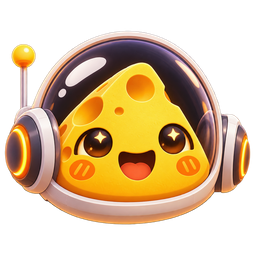
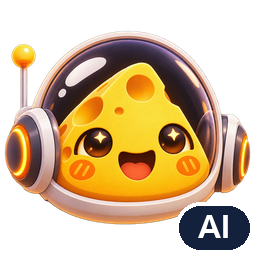
docs: disclose AI use and badge the AI-generated mascot
Space Apps requires a visible watermark on SI-generated images and a
written note on SI-generated audio and code. Stamp an "AI" badge on the
mascot and the icons made from it, and add a "Use of AI tools" section
to the README covering the mascot, the GPT narration and the coding
assistant. Also list the AI model licenses and credit the NASA photo of
Earth used in the pitch video.

Changed region(s): [[0.6875, 0.7812, 1.0, 1.0]]

diff --git a/README.md b/README.md
@@ -35,6 +35,7 @@ cheeseOS is a health app for crews on long-duration missions. The astronaut says
 - [Tests](#tests)
 - [Videos](#videos)
 - [Sources](#sources)
+- [Use of AI tools](#use-of-ai-tools)
 - [License](#license)
 
 ## How it works
@@ -114,16 +115,15 @@ Speech transcription always runs on the device, with `whisper-small`. For the su
 | Engine | Where it runs | Notes |
 | --- | --- | --- |
 | **Browser** (default) | On the device, in a Web Worker | Works offline after the first download |
-| **OpenRouter** | In the cloud | Uses the user's own key. The default model is `google/gemma-3-27b-it` |
+| **OpenRouter** | In the cloud | Uses the user's own key. Offers only Apache 2.0 models made outside China (Mistral Small 3.2 by default, gpt-oss and Granite 4.2), pinned to US or EU hosts |
 | **Off** | — | Local rules only |
 
 Models available in the browser:
 
 | Model | Download with WebGPU | Download on CPU |
 | --- | --- | --- |
-| Gemma 3 1B (default) | 730 MB | 820 MB |
-| Qwen 2.5 0.5B | 460 MB | 750 MB |
-| Qwen 2.5 1.5B | 1.17 GB | 1.7 GB |
+| Granite 4.0 1B (default) | 1.19 GB | 1.7 GB |
+| Granite 4.0 350M | 330 MB | 550 MB |
 
 If a model fails to load on the device, the app tries the smaller ones next. If the local answer takes longer than 30 seconds, it is dropped and the local rules stand alone.
 
@@ -204,10 +204,24 @@ npm run render   # render
 - NASA HRP: [Human Research Roadmap](https://humanresearchroadmap.nasa.gov/) and [Evidence Report: SANS](https://humanresearchroadmap.nasa.gov/evidence/reports/SANS%20EB%202022%20FINAL_8-15-22.pdf)
 - NASA OCHMO: [NASA-STD-3001 Vol. 1 Rev. C](https://standards.nasa.gov/sites/default/files/standards/NASA/C/nasa-std-3001-vol-1-rev-c-signature.pdf) and [Technical Brief: Radiation Protection](https://www.nasa.gov/wp-content/uploads/2023/12/ochmo-tb-020-radiation-protection.pdf)
 - NIH MedlinePlus: [Vital signs](https://medlineplus.gov/ency/article/002341.htm) and [Pulse Oximetry](https://medlineplus.gov/lab-tests/pulse-oximetry/)
+- NASA: the photo of Earth in the pitch video (public domain)
+
+## Use of AI tools
+
+As the NASA Space Apps rules ask, this is where and how AI tools (SI) were used:
+
+- **Mascot.** The cheeseOS mascot and the app icons made from it were generated with an AI image tool. In the app they carry a visible "AI" badge. The two videos, their thumbnails and the screenshots were made before the badge was added, so the mascot in them has no badge; this note and the video descriptions disclose it instead.
+- **Narration.** The voice in the explainer video is synthetic, generated with OpenAI GPT text-to-speech from our own script.
+- **Code and documentation.** Written with help from Claude (Anthropic), an AI coding assistant. Commits it helped with are marked `Co-Authored-By: Claude`.
+- **Inside the app.** The app itself runs AI models: IBM Granite 4.0 in the browser, OpenAI Whisper for speech-to-text, MediaPipe for pose tracking and, optionally, cloud models through OpenRouter (see [Artificial intelligence](#artificial-intelligence)).
+
+The idea, the health rules, the NASA research behind them and the design decisions are the team's own.
 
 ## License
 
 The code is released under the [MIT License](LICENSE).
+
+The AI models keep their own licenses, all OSI open source: IBM Granite 4.0 1B and 350M (Apache 2.0), OpenAI Whisper Small (Apache 2.0) and MediaPipe Pose Landmarker (Apache 2.0). The OpenRouter models offered (Mistral Small 3.2, OpenAI gpt-oss-120b and gpt-oss-20b, IBM Granite 4.2 8B) are also Apache 2.0.
 
 Third-party media in the videos keeps its own license: the music is "space music ambient" by evanjones4 ([CC0](https://freesound.org/s/243998/)), and the sound effects are credited in [video/.media/audio/sfx/CREDITS.md](video/.media/audio/sfx/CREDITS.md).
 
